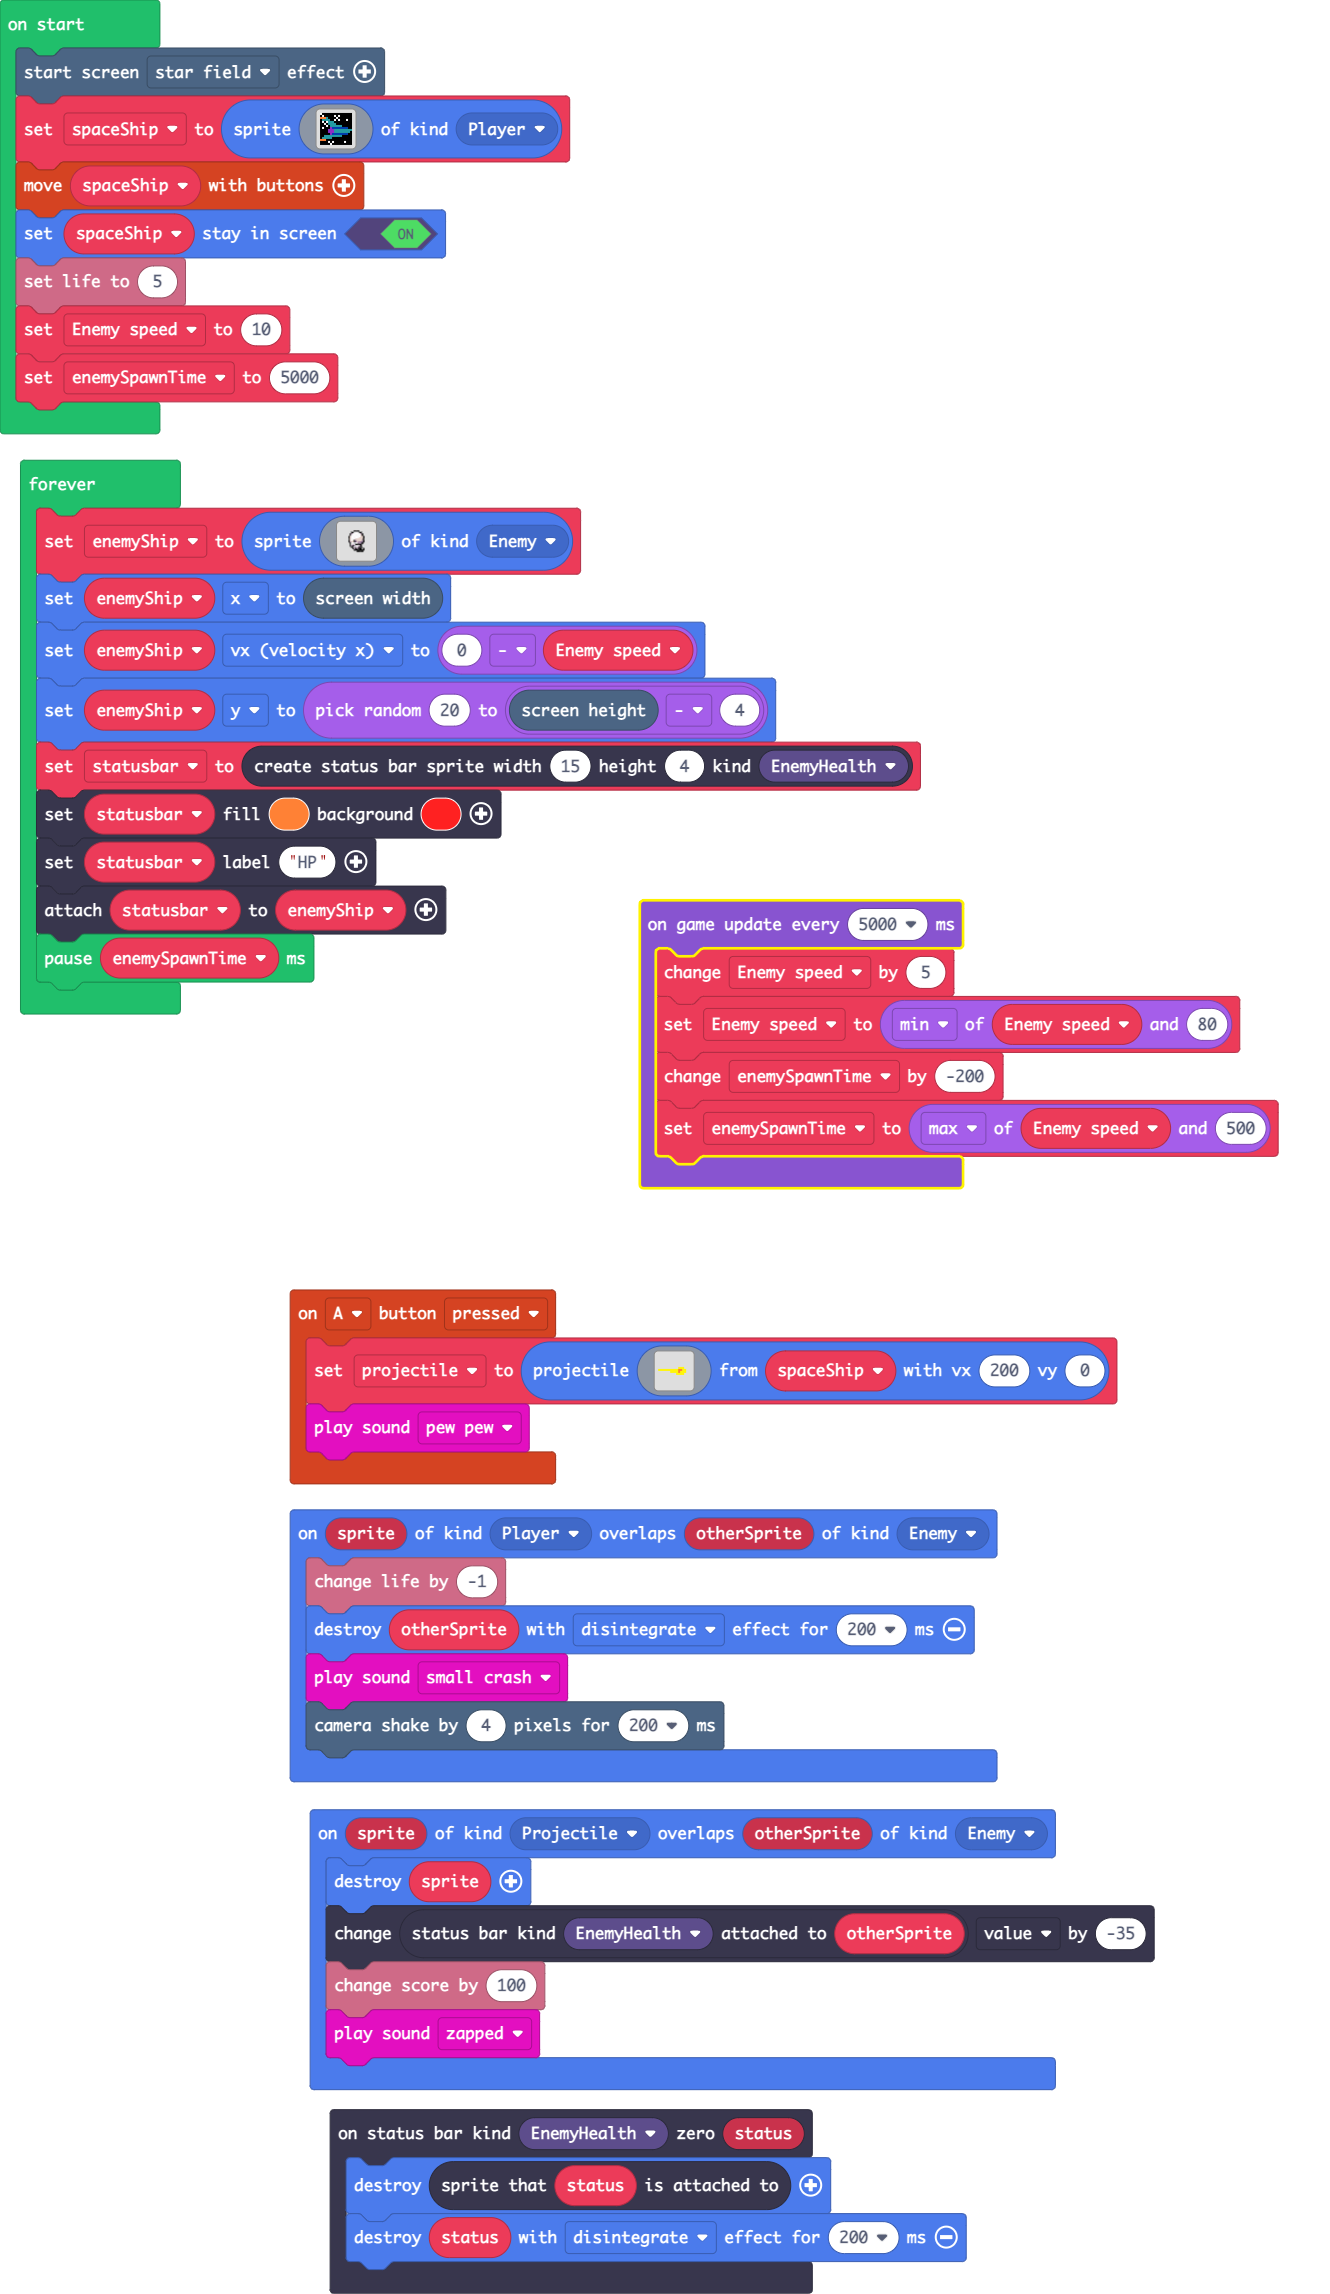
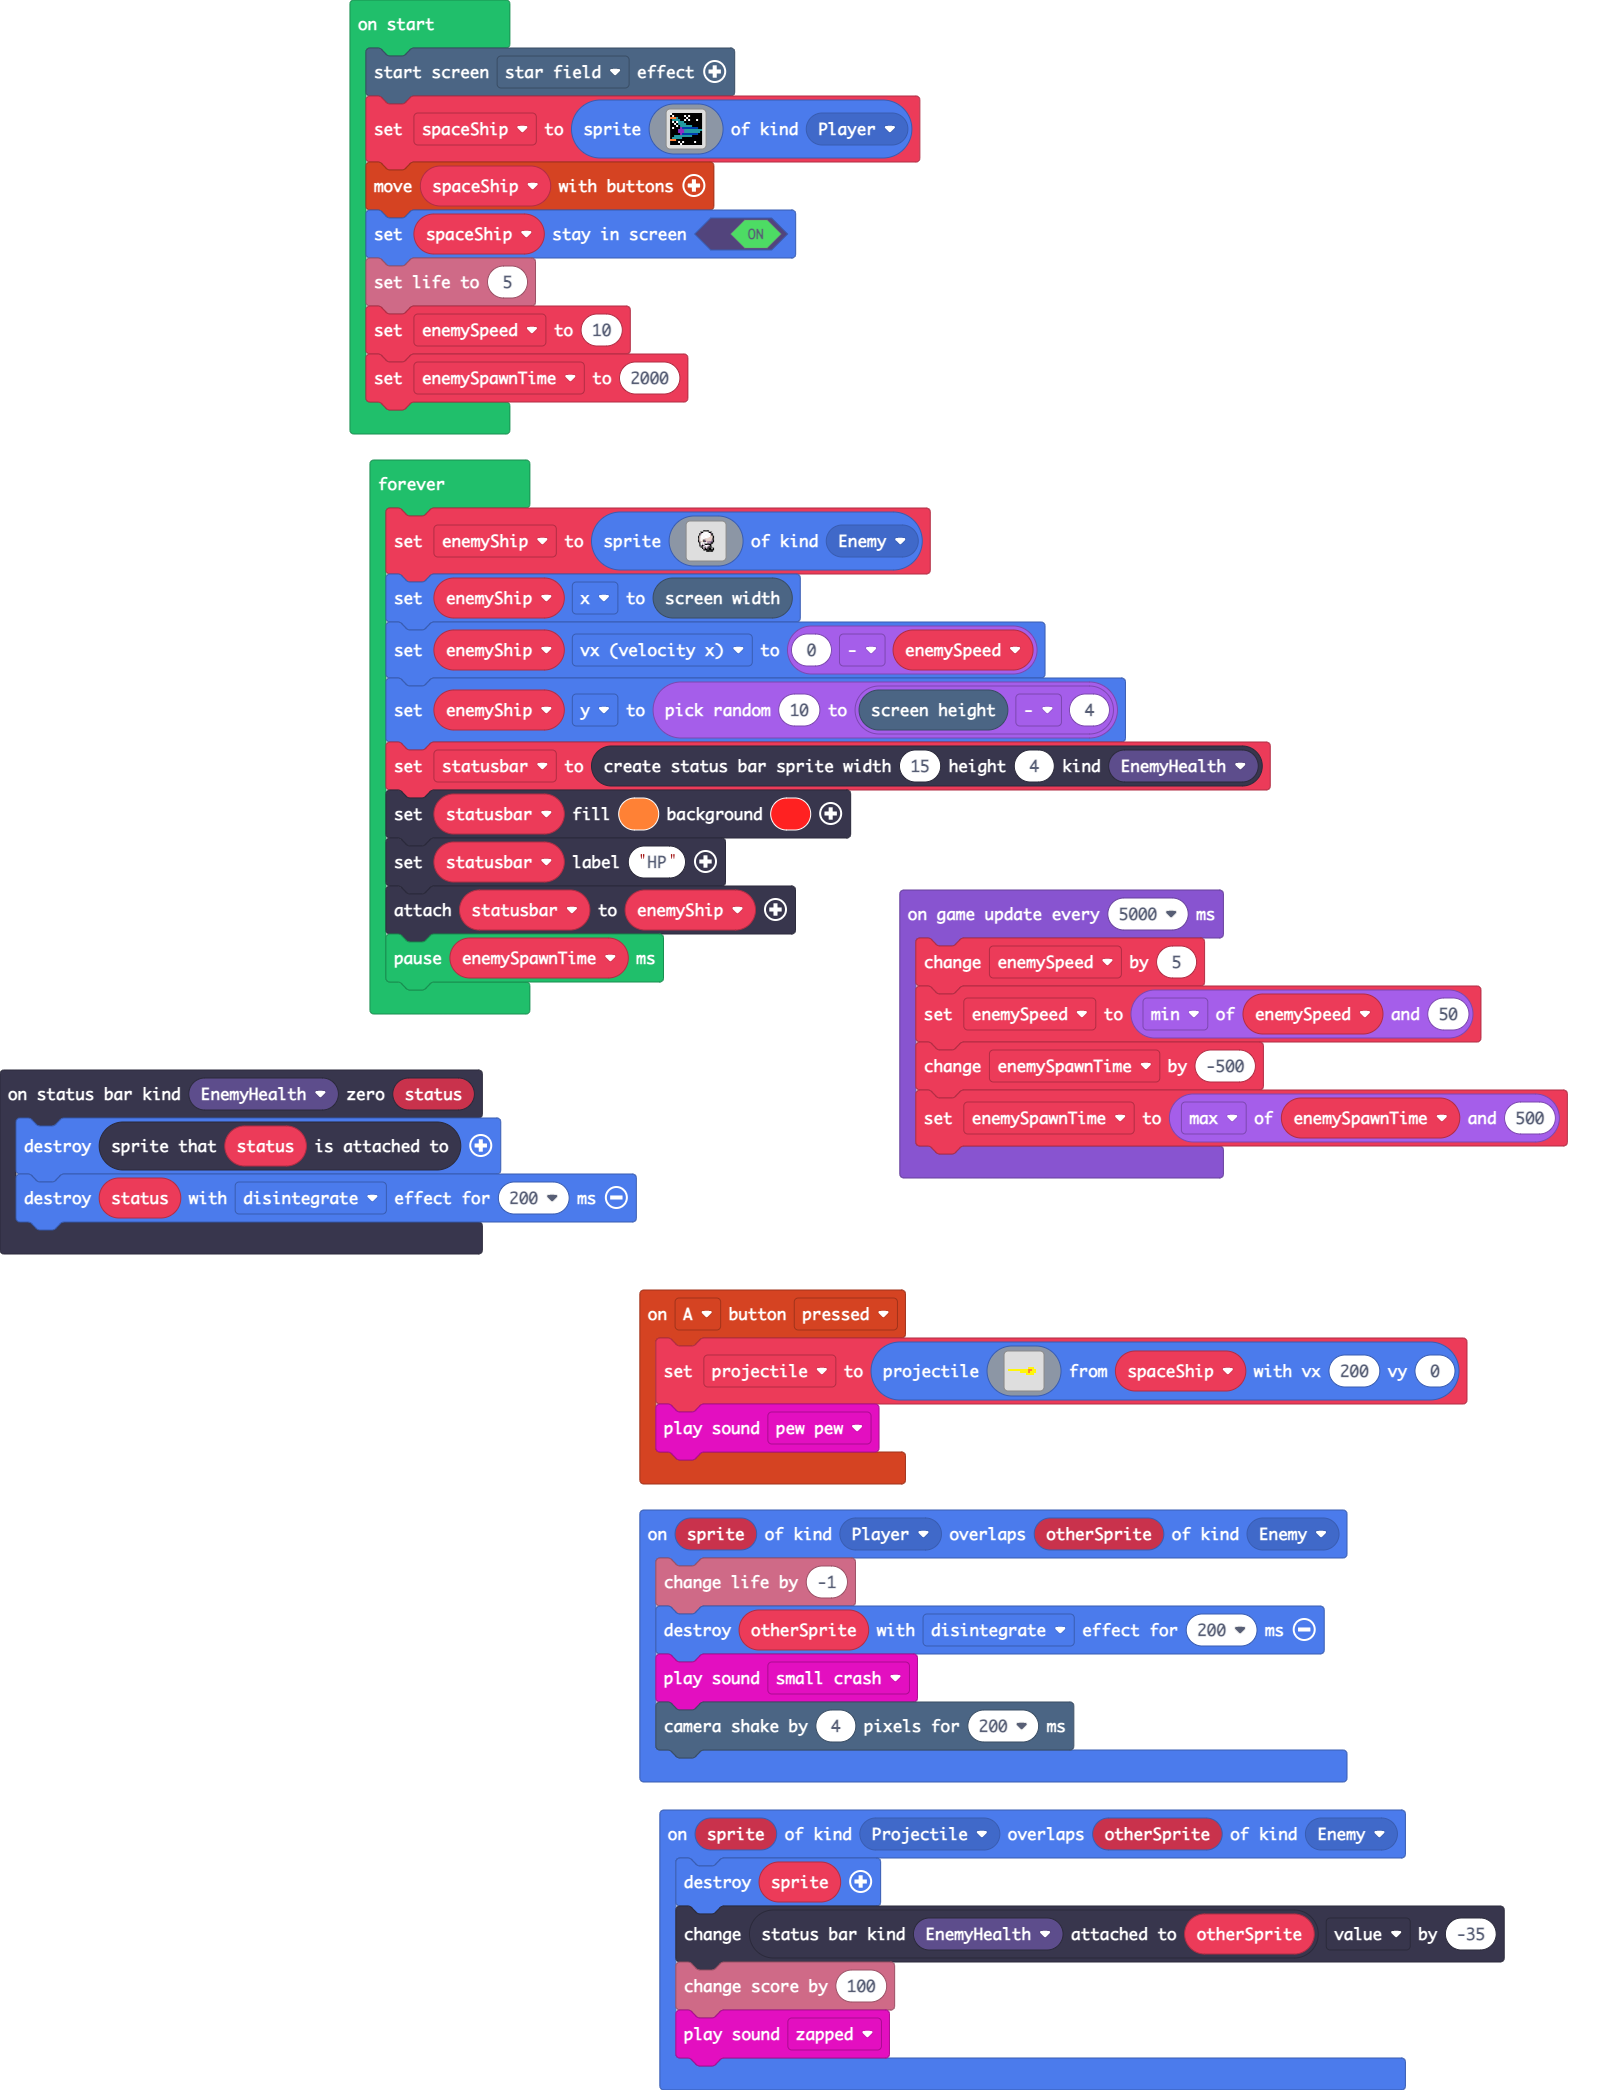
Update main.blocks, main.ts

diff --git a/main.ts b/main.ts
@@ -61,13 +61,13 @@ spaceShip = sprites.create(img`
 controller.moveSprite(spaceShip)
 spaceShip.setStayInScreen(true)
 info.setLife(5)
-let Enemy_speed = 10
-let enemySpawnTime = 5000
+let enemySpeed = 10
+let enemySpawnTime = 2000
 game.onUpdateInterval(5000, function () {
-    Enemy_speed += 5
-    Enemy_speed = Math.min(Enemy_speed, 80)
-    enemySpawnTime += -200
-    enemySpawnTime = Math.max(Enemy_speed, 500)
+    enemySpeed += 5
+    enemySpeed = Math.min(enemySpeed, 50)
+    enemySpawnTime += -500
+    enemySpawnTime = Math.max(enemySpawnTime, 500)
 })
 forever(function () {
     enemyShip = sprites.create(img`
@@ -97,8 +97,8 @@ forever(function () {
         ........................
         `, SpriteKind.Enemy)
     enemyShip.x = scene.screenWidth()
-    enemyShip.vx = 0 - Enemy_speed
-    enemyShip.y = randint(20, scene.screenHeight() - 4)
+    enemyShip.vx = 0 - enemySpeed
+    enemyShip.y = randint(10, scene.screenHeight() - 4)
     statusbar = statusbars.create(15, 4, StatusBarKind.EnemyHealth)
     statusbar.setColor(4, 2)
     statusbar.setLabel("HP")
